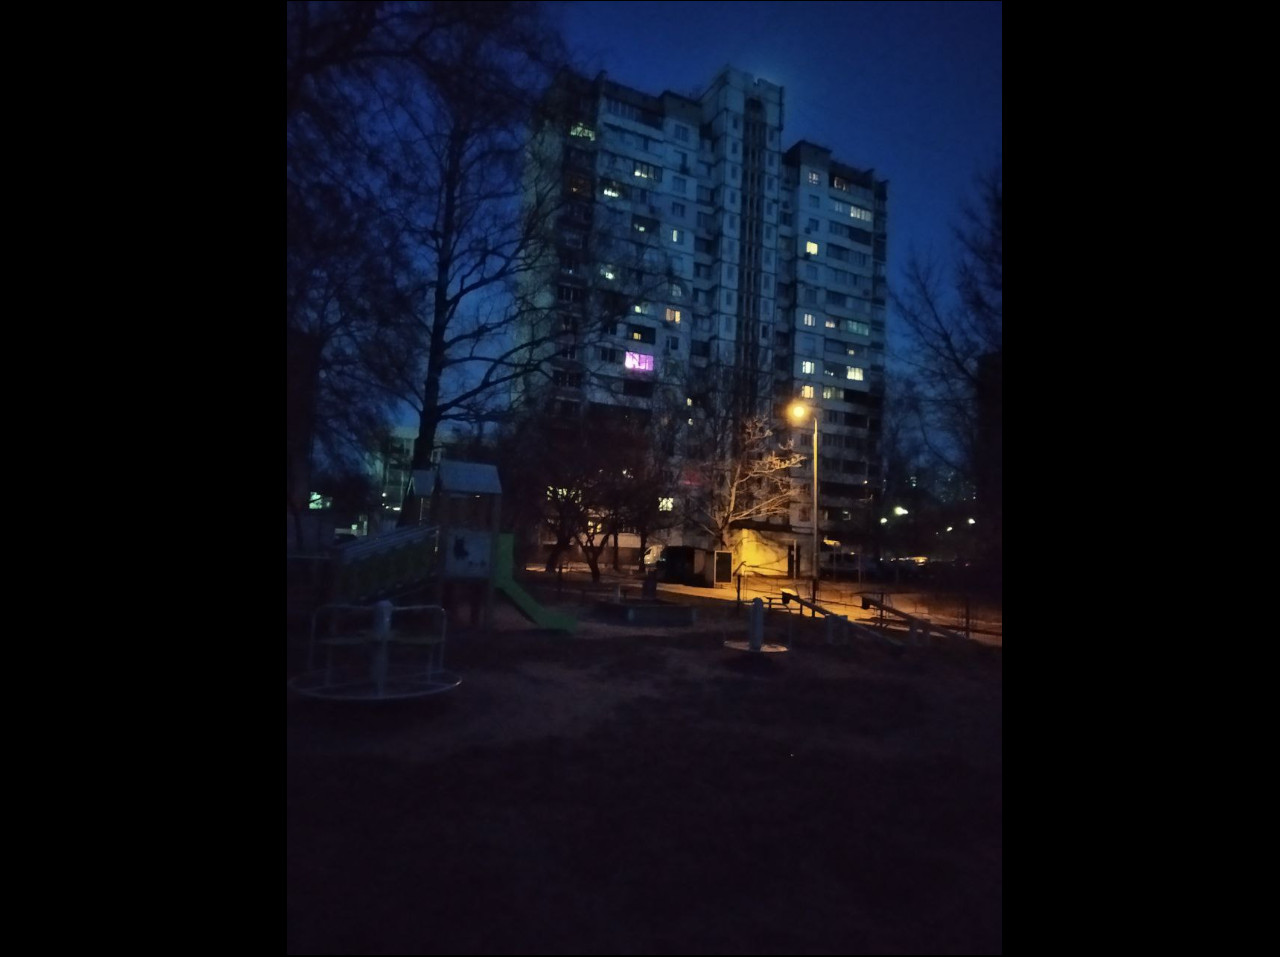
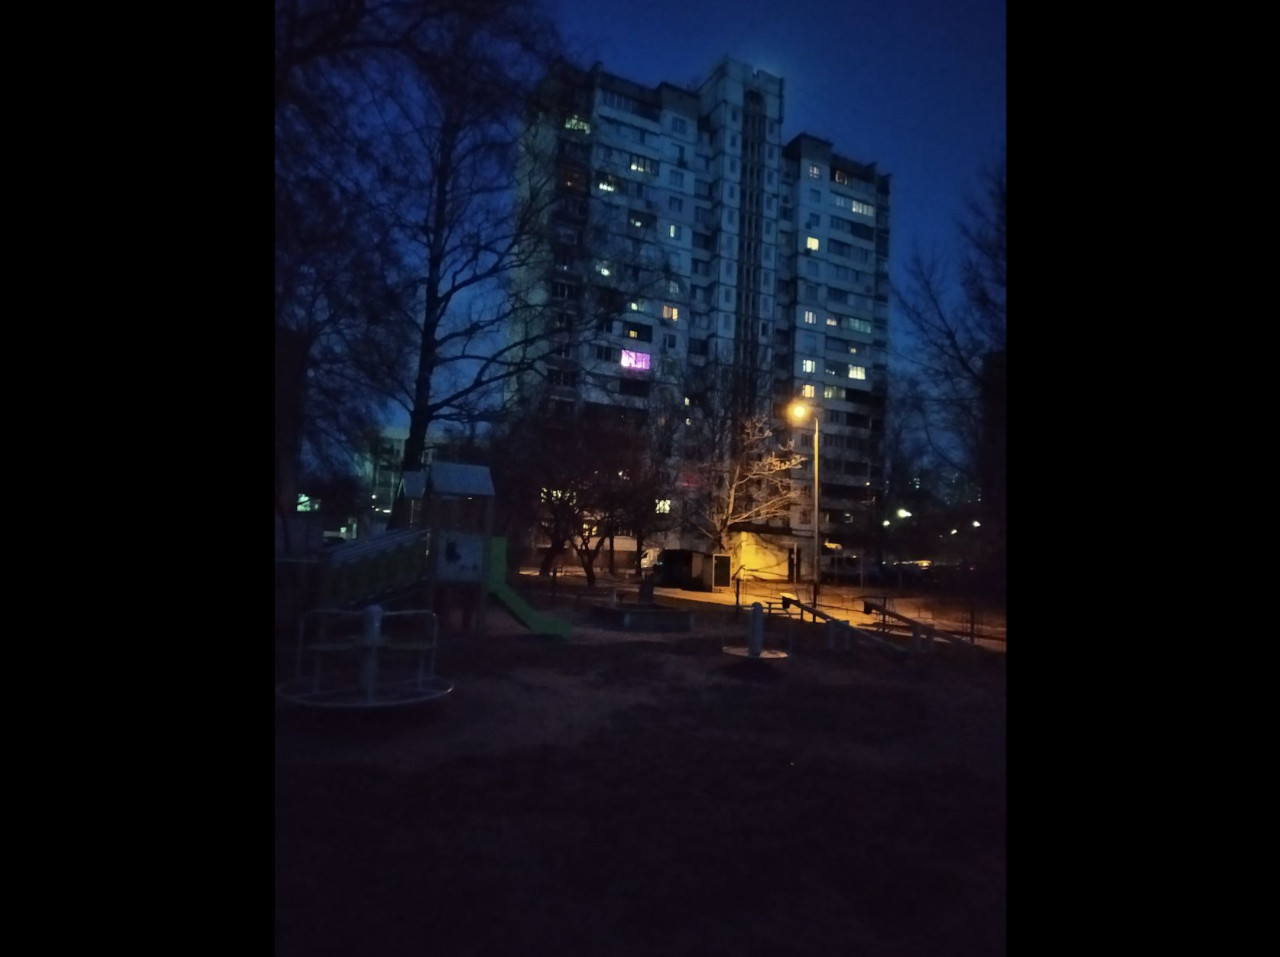
added daesty photos

diff --git a/photos_pages/daesty.html b/photos_pages/daesty.html
@@ -80,6 +80,11 @@
             </a>
             <p class="text_in_photos_page photos_author_text_on_page">I'll post herе some my photos, be sure, it's the best photos ever !!! XD</p>
             <div class="div_with_all_photos">
+                <img src="../images_for_photos_page/daesty/img_23.jpg" alt="">
+                <img src="../images_for_photos_page/daesty/img_22.jpg" alt="">
+                <img src="../images_for_photos_page/daesty/img_21.jpg" alt="">
+                <img src="../images_for_photos_page/daesty/img_20.jpg" alt="">
+                <img src="../images_for_photos_page/daesty/img_19.jpg" alt="">
                 <img src="../images_for_photos_page/daesty/img_18.jpg" alt="">
                 <img src="../images_for_photos_page/daesty/img_17.jpg" alt="">
                 <img src="../images_for_photos_page/daesty/img_16.jpg" alt="">